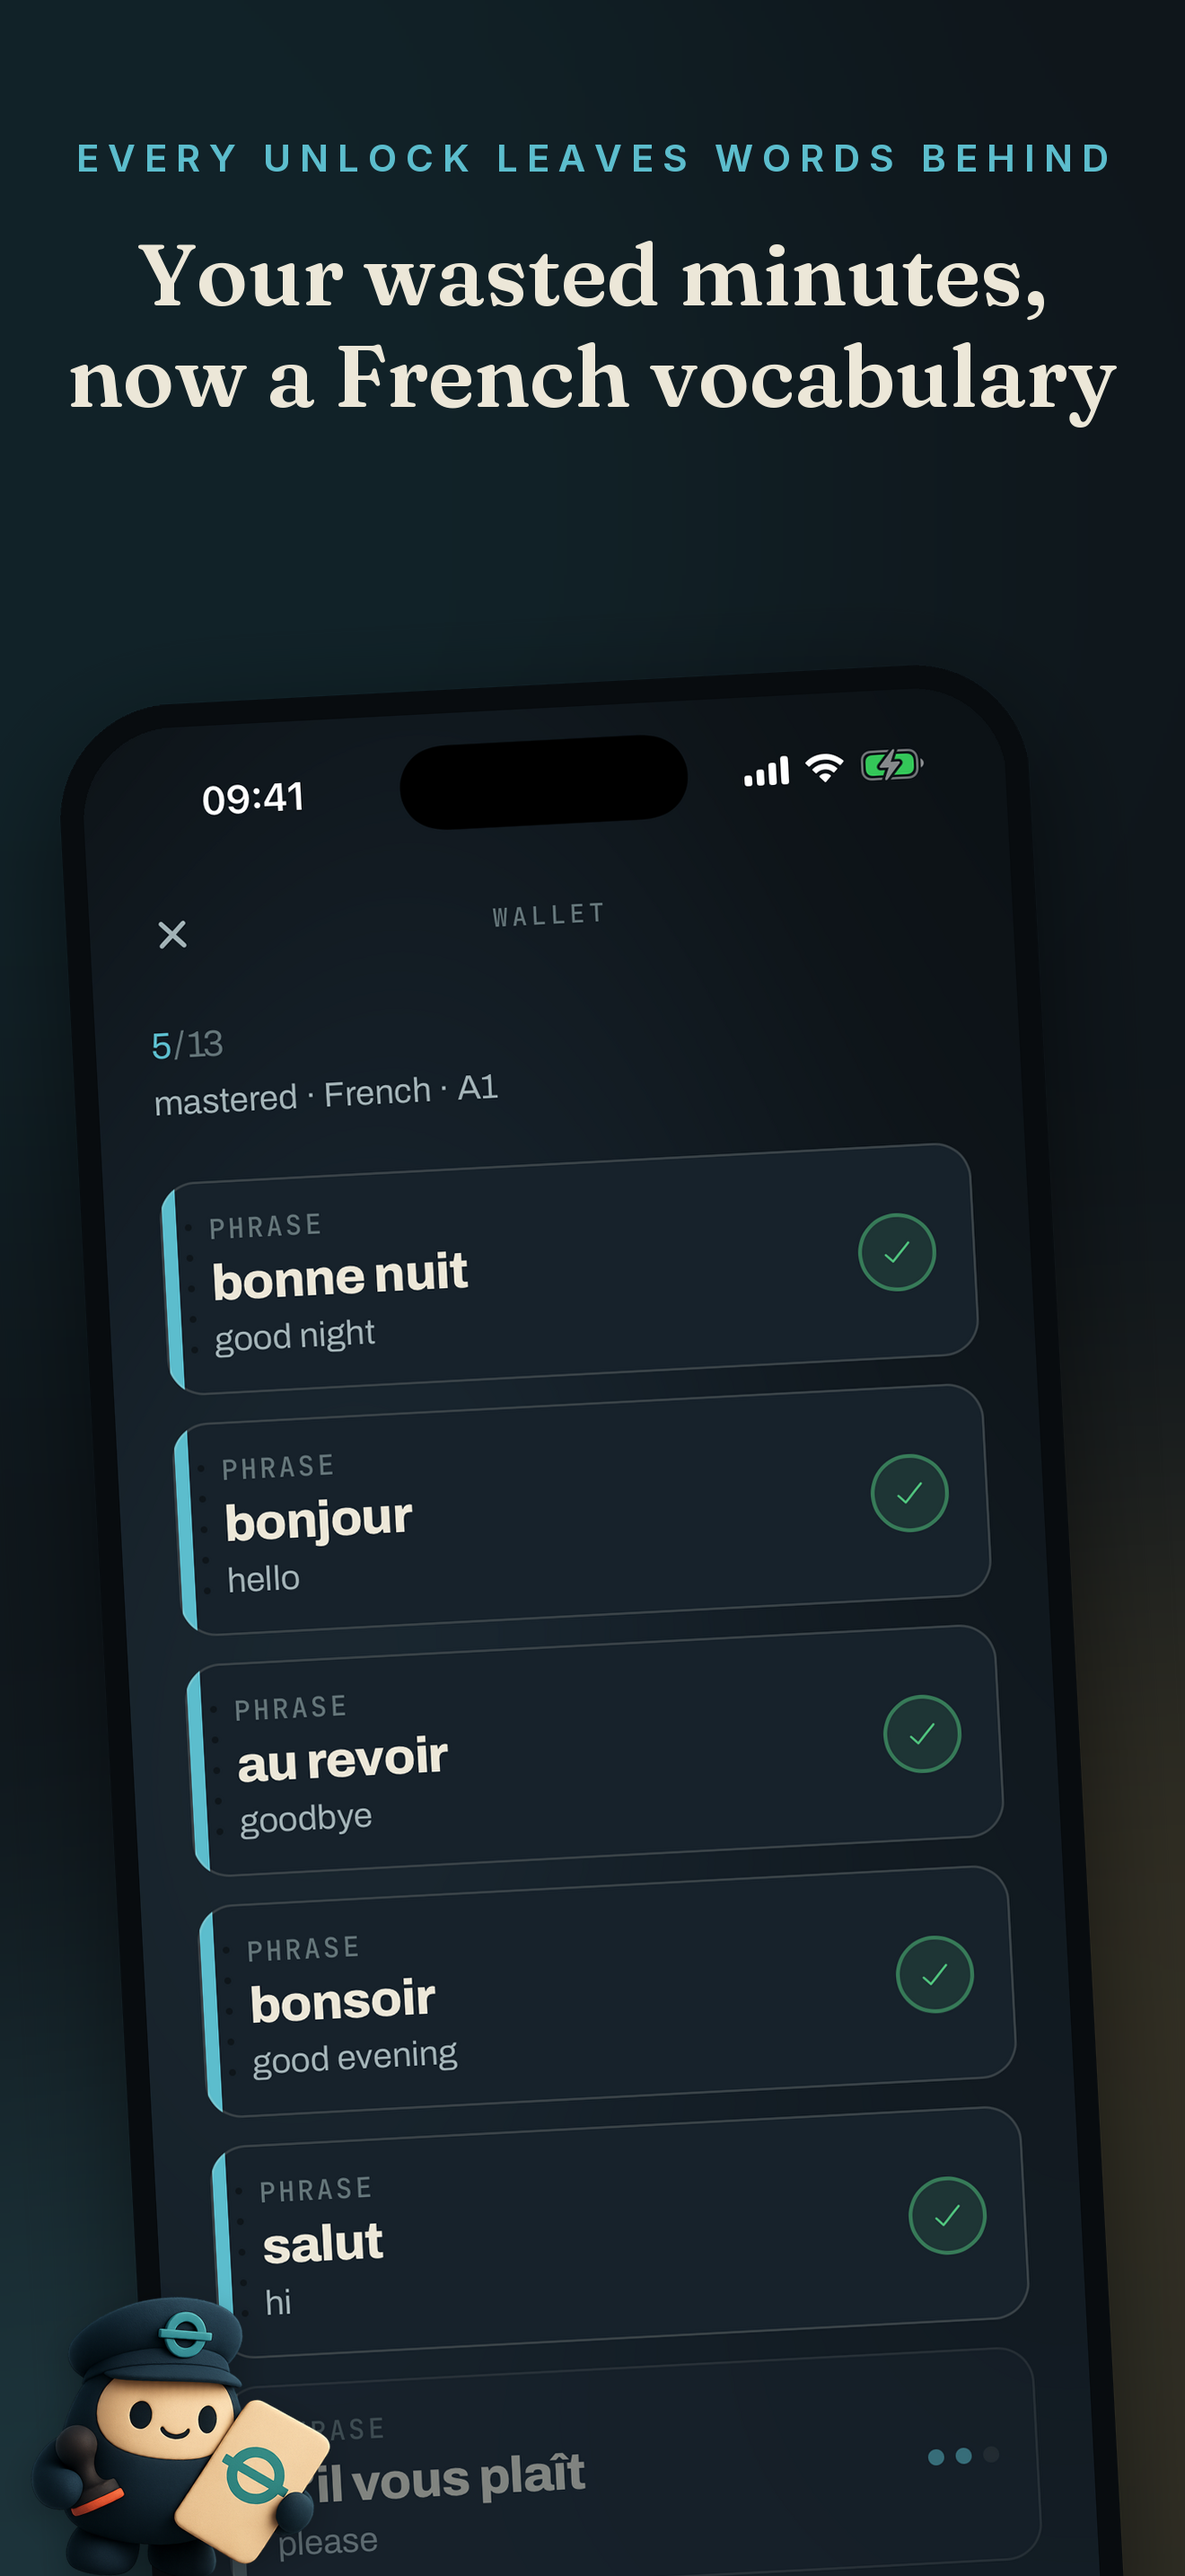
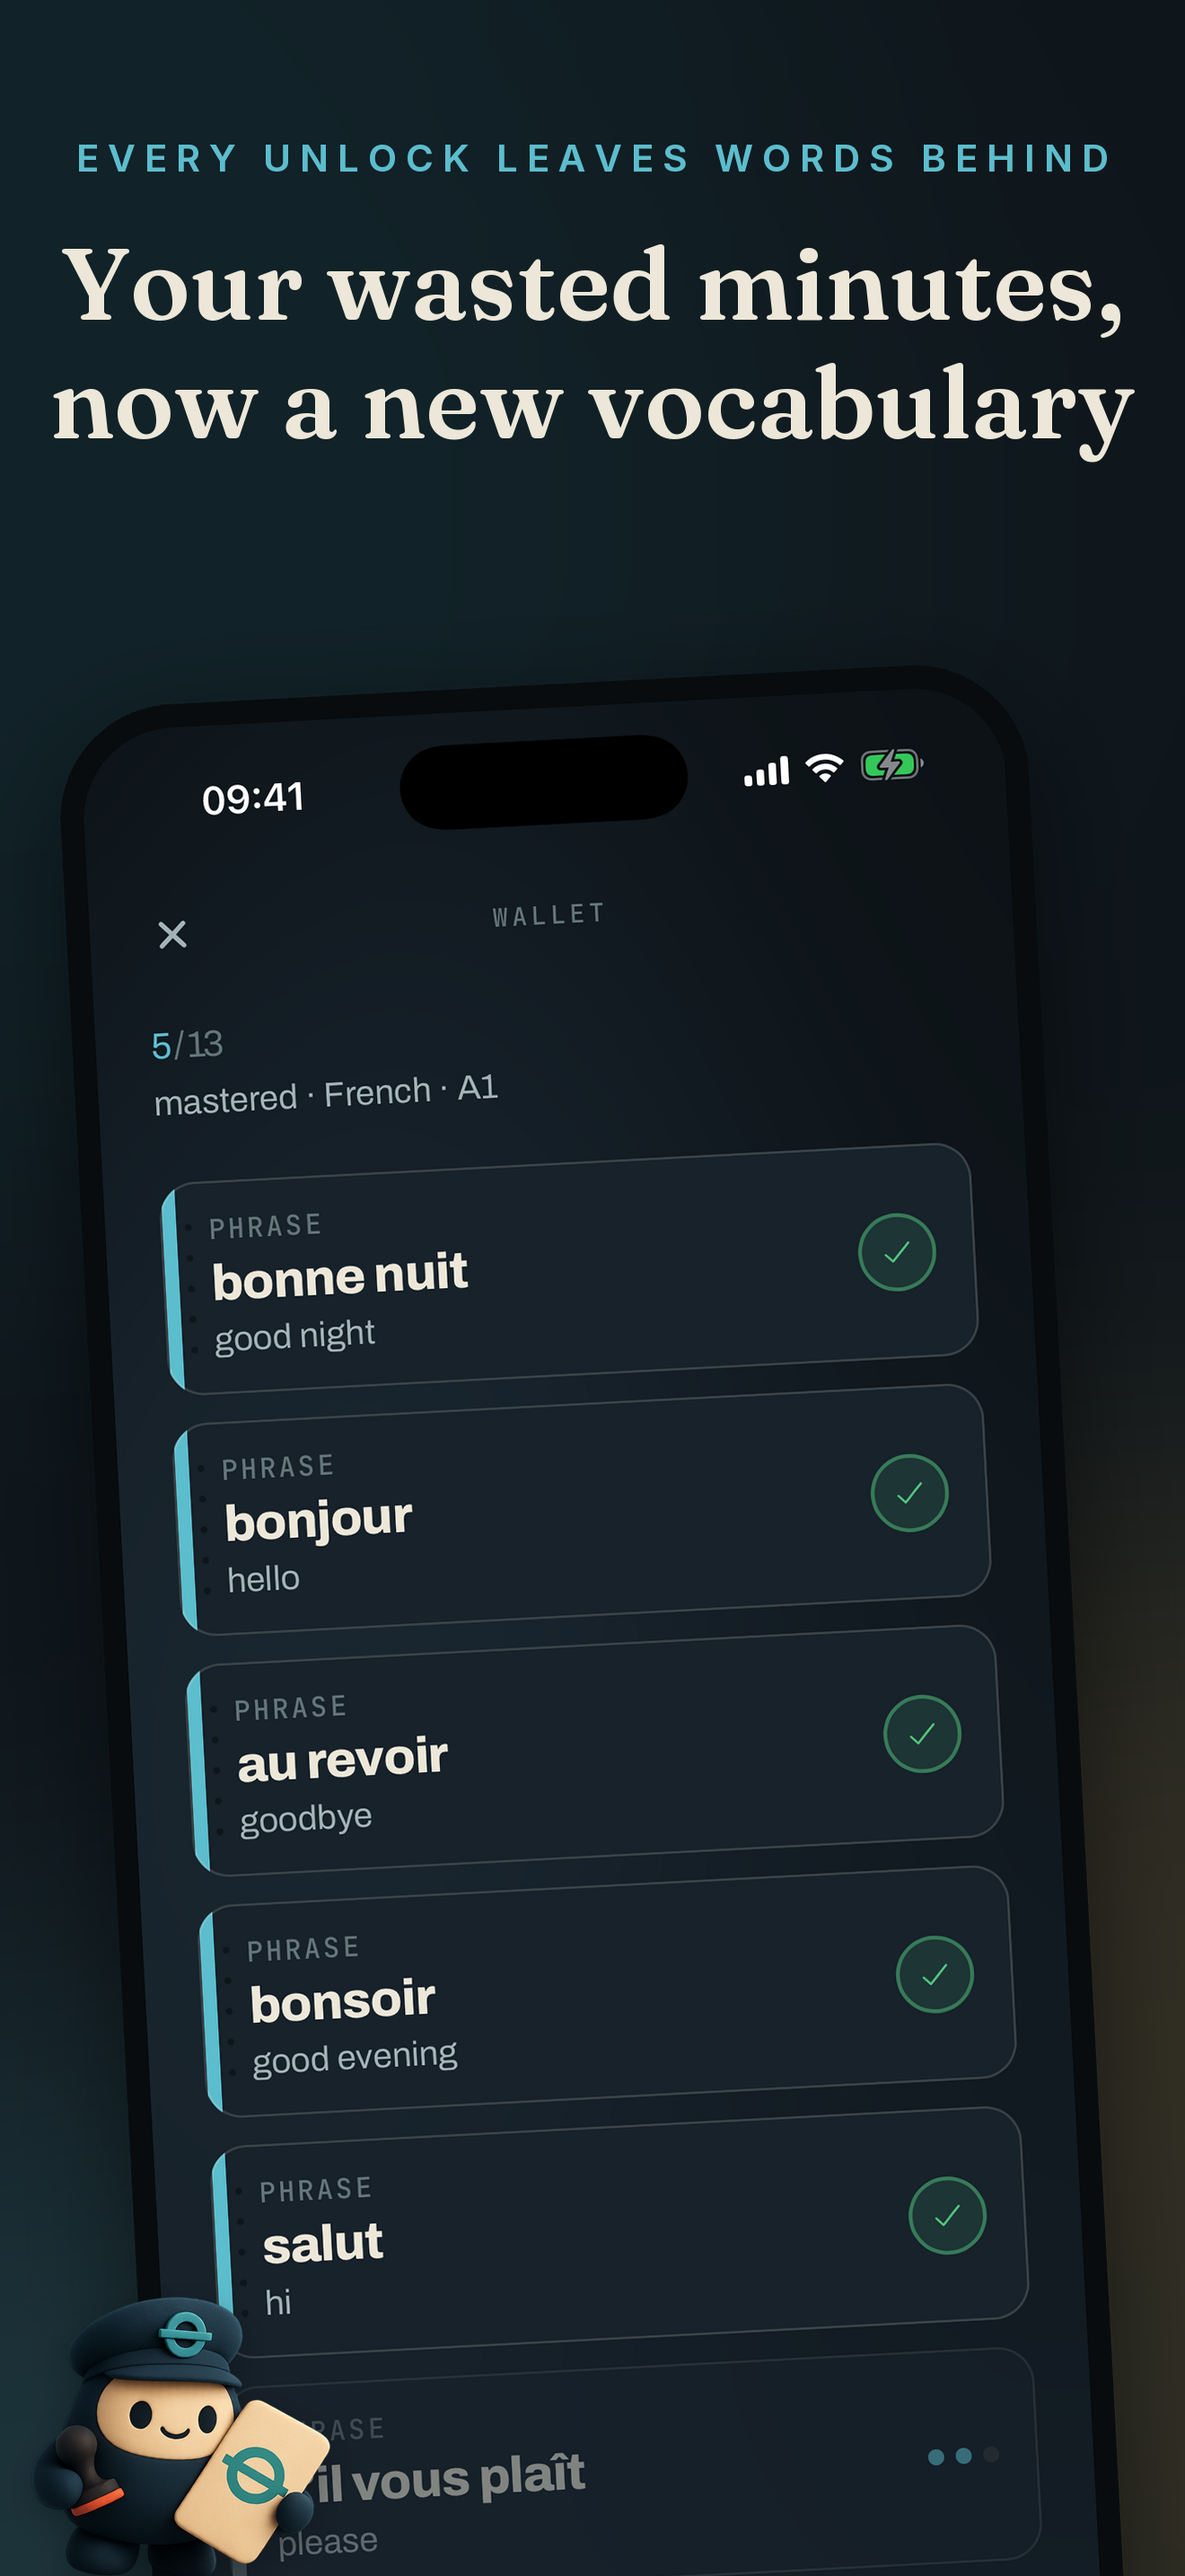
shots: wallet headline goes language-agnostic — 'now a new vocabulary'
The screen already says French five times; the headline naming it too was
redundant and wrong for a shot that should work whatever you came to learn.

Claude-Session: https://claude.ai/code/session_01WH3gWNvxtpgQbCP3L1S9tL

Changed region(s): [[0.0311, 0.0931, 0.9629, 0.1862]]

diff --git a/langtoll-mobile/marketing/appstore/store_shots.py b/langtoll-mobile/marketing/appstore/store_shots.py
@@ -275,7 +275,7 @@ SHOTS = [
         "name": "05_wallet",
         "raw": "raw_wallet_fr.png",
         "kicker": "every unlock leaves words behind",
-        "headline": "Your wasted minutes,\nnow a French vocabulary",
+        "headline": "Your wasted minutes,\nnow a new vocabulary",
         "aurora": [(TEAL_DEEP, 0.1, 0.2, 0.6), (AMBER, 0.9, 0.8, 0.45), (TEAL, 0.3, 0.95, 0.4)],
         "device_w": 1080, "tilt": 3.0, "device_y": 545,
         # Bottom-left corner, over the already-faded next card — never over legible copy.
